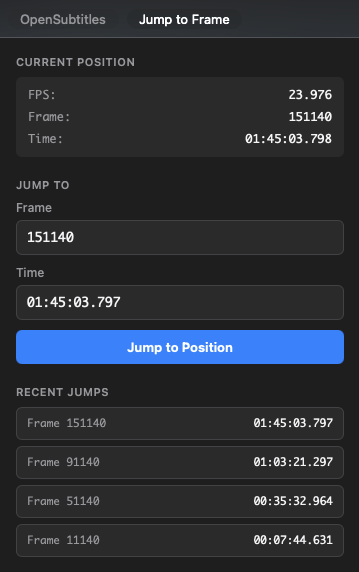
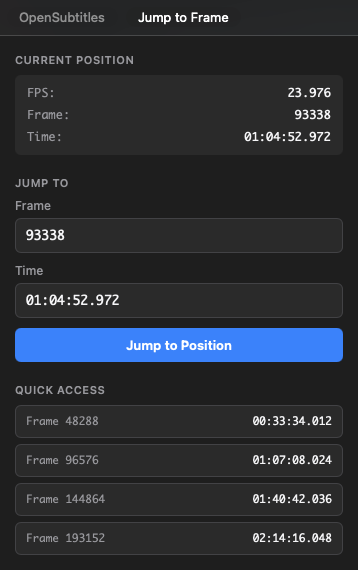
extend quick-access

diff --git a/src/index.js b/src/index.js
@@ -12,15 +12,21 @@ function updateFPS() {
   if (fps == null || fps < 1) {
     fps = Number(mpv.getString("container-fps"));
   }
+  fps = parseFloat(fps) || 0;
 }
 
 function updateFrameData() {
   sidebar.postMessage("update-jump-to-frame", {
-    fps: parseFloat(fps) || 0,
+    fps: fps,
     frame: mpv.getString("estimated-frame-number"),
     time: mpv.getString("time-pos/full"),
     paused: core.status.paused,
   });
+}
+
+function fileLoaded() {
+  updateFPS();
+  updateFrameData();
 }
 
 function pauseChanged(paused) {
@@ -50,7 +56,7 @@ function startUpdating() {
   }
 
   if (!fpsHook) {
-    fpsHook = event.on("iina.file-loaded", updateFPS);
+    fpsHook = event.on("iina.file-loaded", fileLoaded);
   }
 }
 
@@ -78,7 +84,11 @@ event.on("iina.window-loaded", () => {
   sidebar.onMessage("visible-jump-to-frame", () => {
     sidebarVisible = true;
     startUpdating();
+
+    const countString = mpv.getString("estimated-frame-count");
     sidebar.postMessage("init-jump-to-frame", {
+      fps: fps,
+      count: parseInt(countString, 10) || 0,
       frame: mpv.getString("estimated-frame-number"),
       time: mpv.getString("time-pos/full")
     });

diff --git a/src/sidebar.js b/src/sidebar.js
@@ -193,9 +193,16 @@ iina.onMessage("update-jump-to-frame", ({ fps: newFps, frame, time, paused }) =>
 
 });
 
-iina.onMessage("init-jump-to-frame", ({ frame, time }) => {
+iina.onMessage("init-jump-to-frame", ({ fps: newFps, count, frame, time }) => {
+  updateFPS(newFps);
   frameInput.value = frame;
   timeInput.value = formatTime(parseFloat(time));
+
+  if (fps <= 0 || count <= 0) return;
+  if (historyContainer.querySelector('.history-item')) return;
+
+  Array.from({ length: 5 }, (_, i) => Math.round(count * (1 - (i / 4))))
+     .forEach(f => addHistoryItem(f, formatTime(f / fps)));
 });
 
 document.addEventListener('visibilitychange', () => {

diff --git a/src/sidebar.html b/src/sidebar.html
@@ -35,7 +35,7 @@
     </div>
 
     <div class="section history-section">
-        <div class="section-title">Recent Jumps</div>
+        <div class="section-title">Quick Access</div>
         <div class="history" id="historyContainer">
             <div class="empty-state">No jumps yet</div>
         </div>

diff --git a/README.md b/README.md
@@ -8,7 +8,7 @@ Frame-accurate seeking plugin for [IINA media player](https://iina.io/).
 
 - **Frame Status**: FPS, current frame number and timecode
 - **Smart Input**: Jump via frame number or flexible timecode formats
-- **Jump History**: Quick-access list of recent positions
+- **Quick Access**: Clickable list of predefined and recent jumps
 
 ## Usage
 
